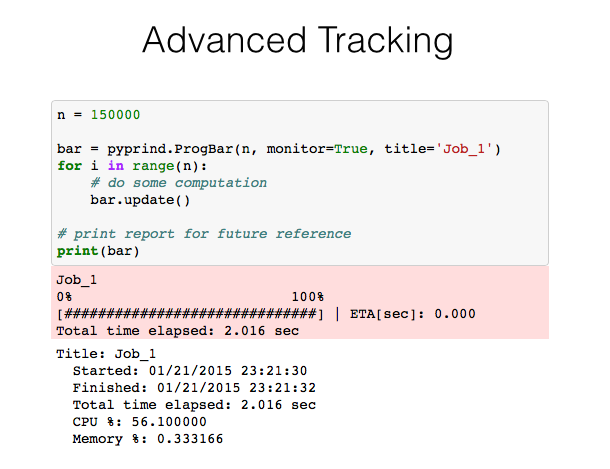
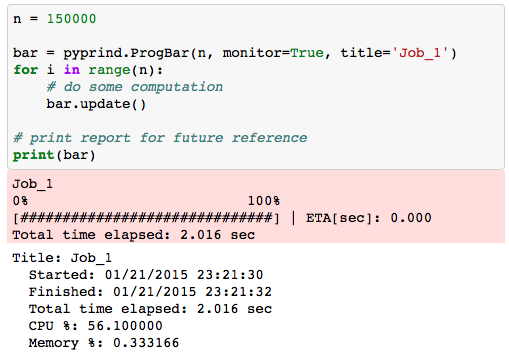
documentation overhaul

Changed region(s): [[0.0, 0.0308, 1.0, 0.986], [0.0, 0.0308, 0.2063, 0.0616], [0.8546, 0.1232, 0.9136, 0.1541]]

diff --git a/README.md b/README.md
@@ -11,7 +11,14 @@ at runtime about the progress of the computation.
 
 <br>
 
+#### Progress Bars and Percentage Indicators
+
 ![Screenshot of PyPrind executed in an IPython notebook](https://raw.githubusercontent.com/rasbt/pyprind/master/images/overview_1.png)
+
+<br>
+<br>
+
+#### Advanced Tracking
 
 ![Screenshot of PyPrind executed in an IPython notebook](https://raw.githubusercontent.com/rasbt/pyprind/master/images/overview_2.png)
 
